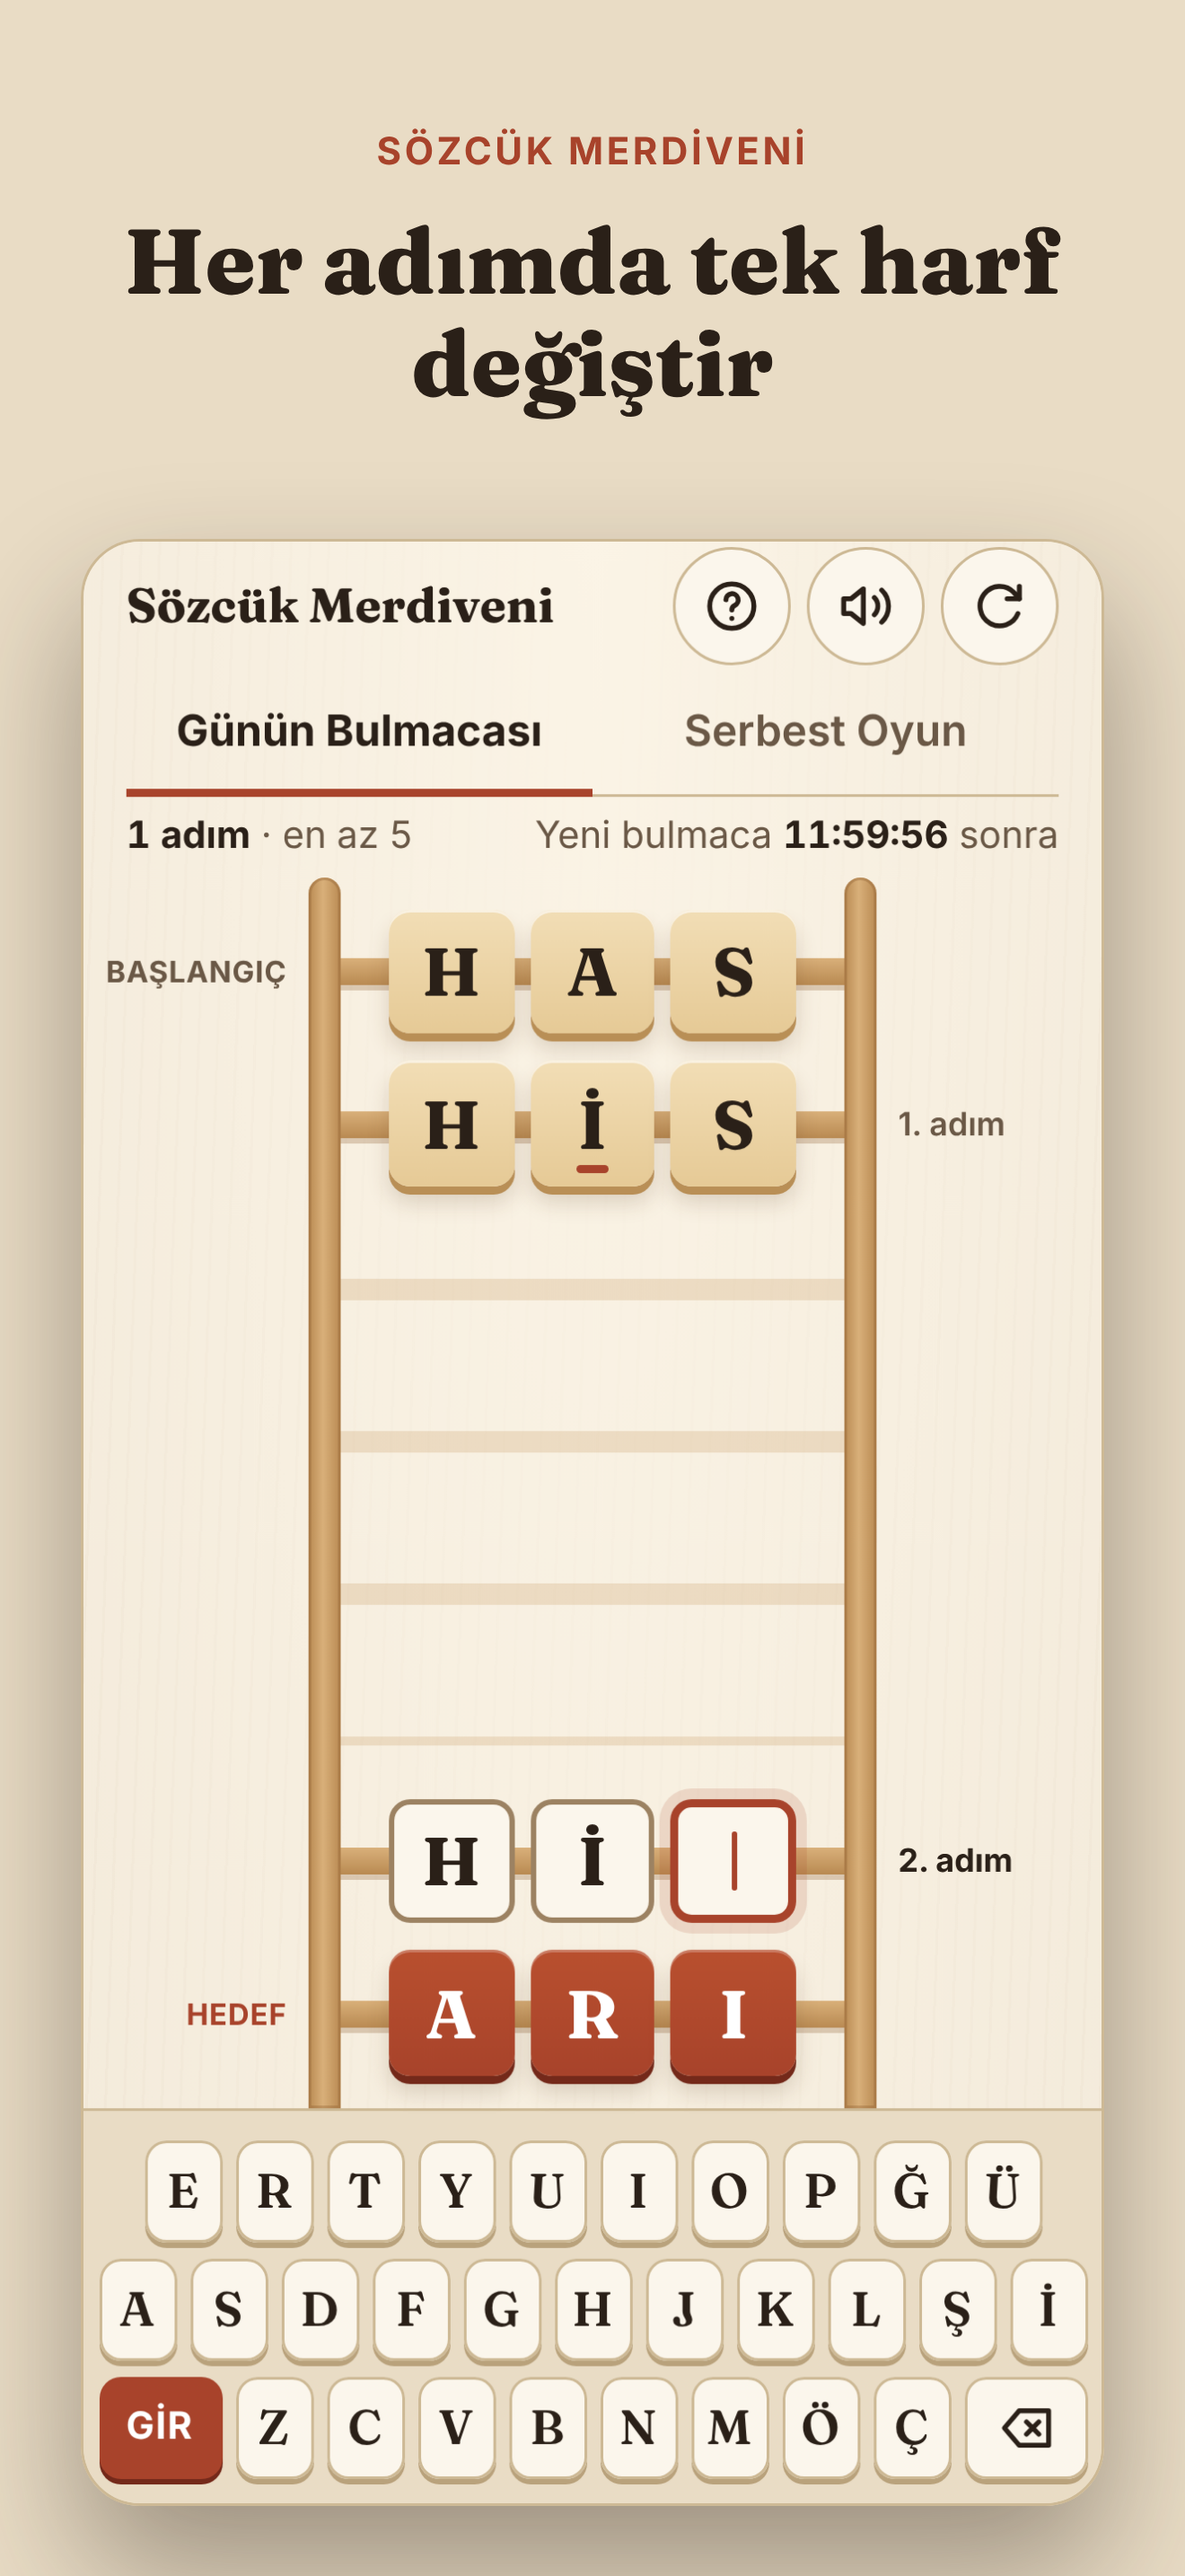
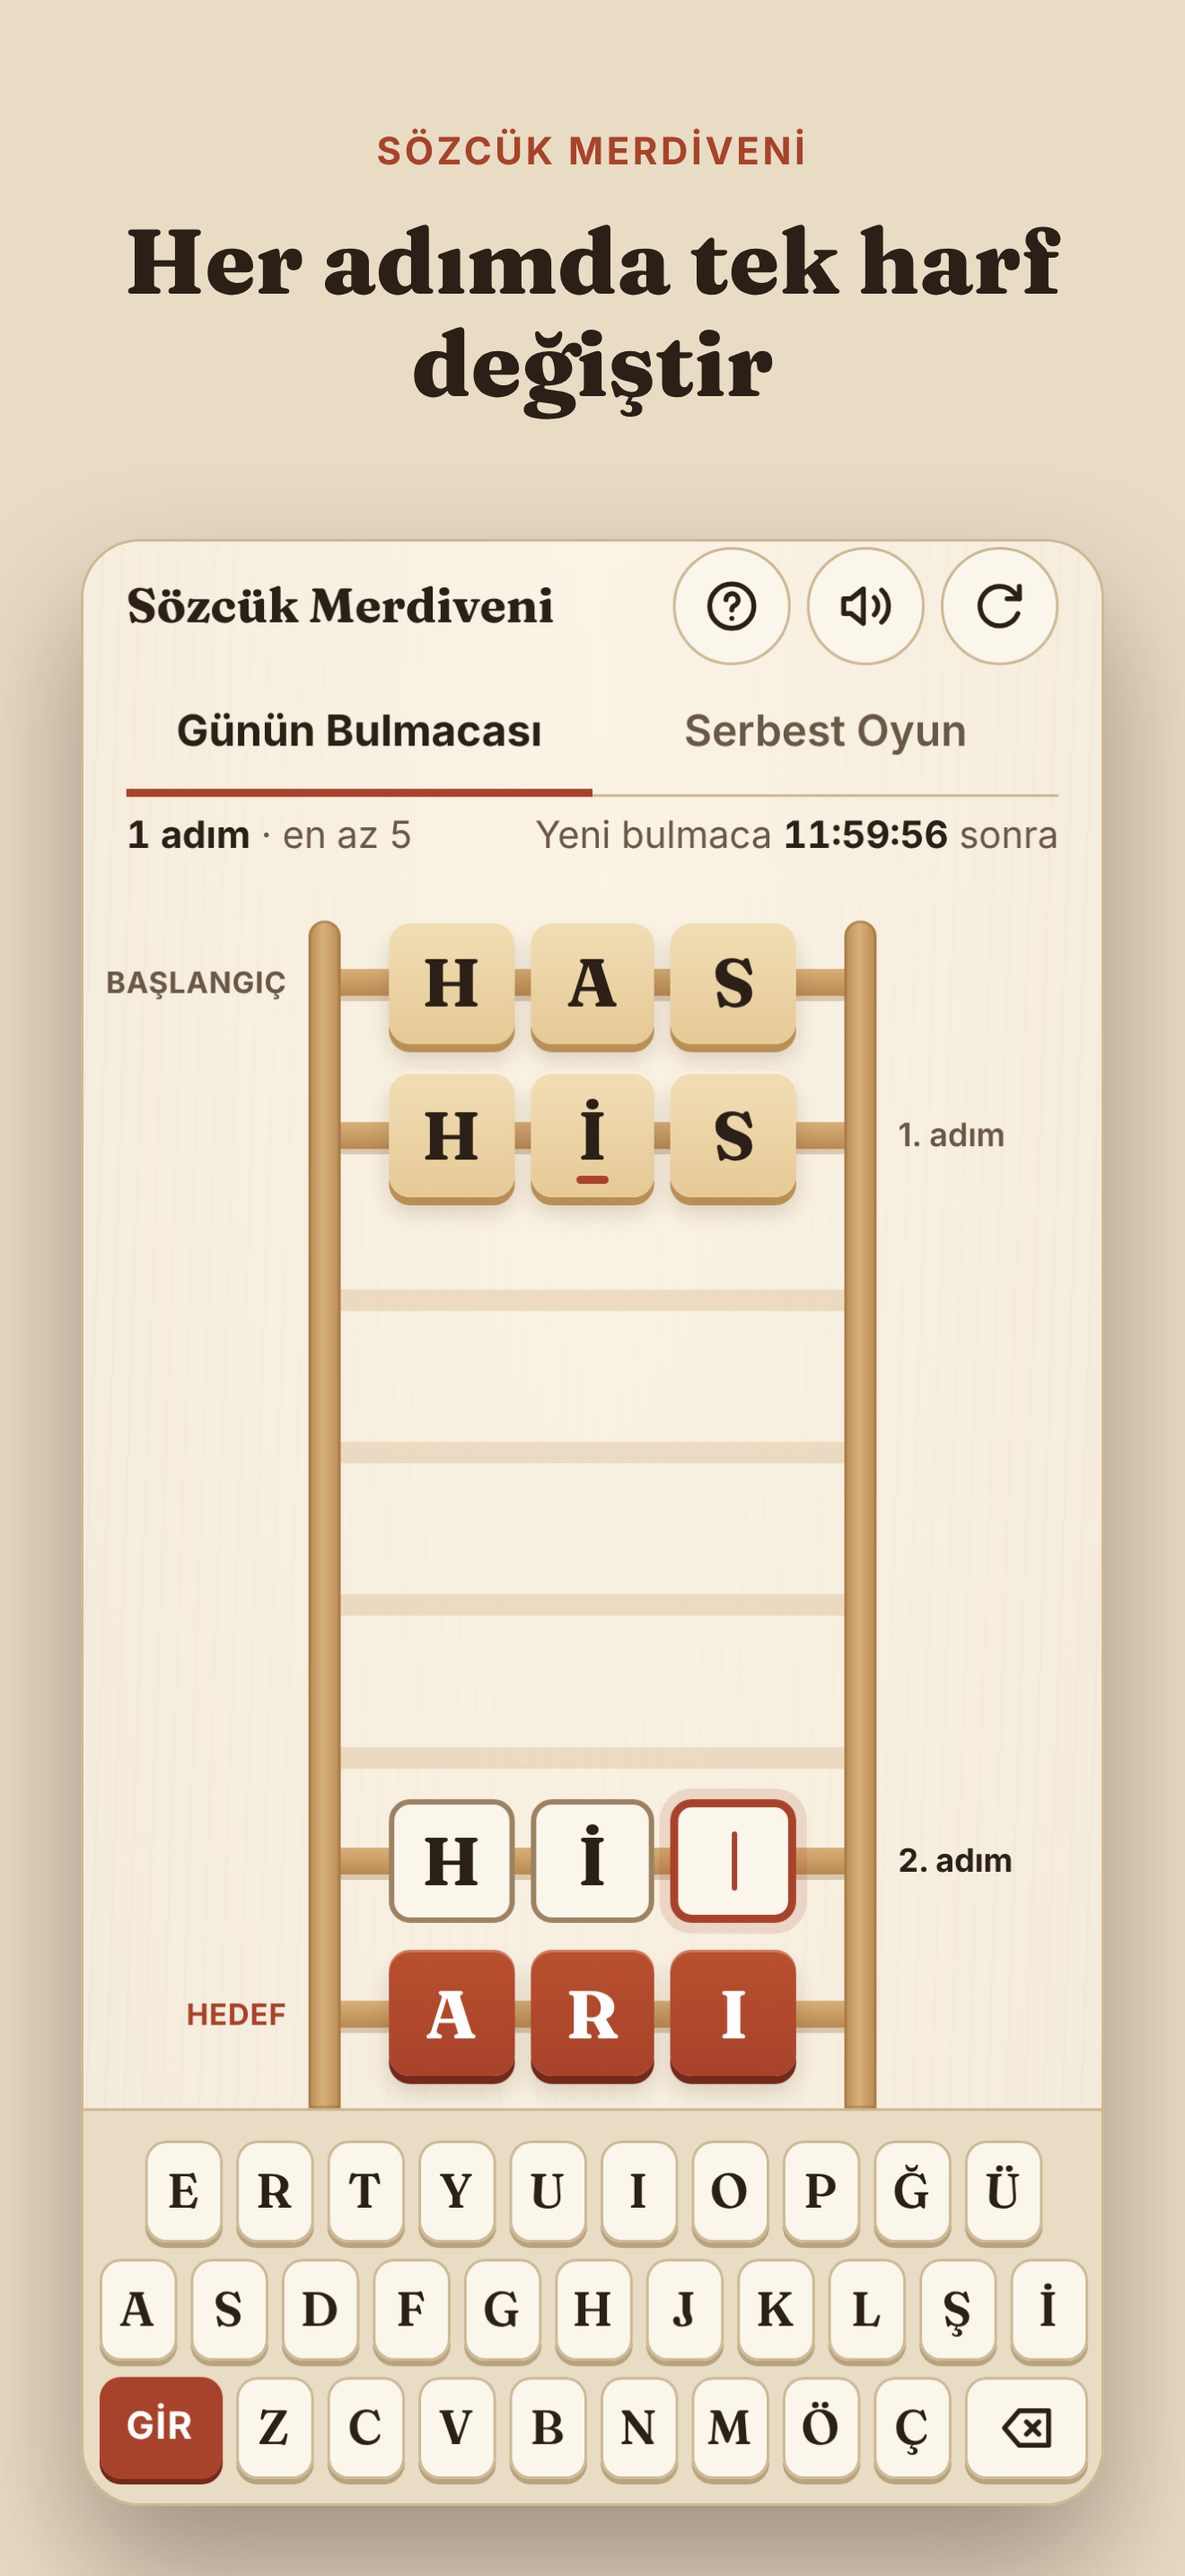
Ahşap: kısa ekran düzeltmesi, bağlantıda Enter, inceleme bulguları
- Kısa ve yatay ekran: .steps en az bir basamak boyunda kalır (son kelime
  hep görünür); sığmayan merdiven .game içinde kayar, klavyenin üstüne
  taşmaz. Kabul sonrası giriş satırı görünür tutulur.
- Odaktaki bağlantıda Enter bağlantıyı açar, kelime göndermez.
- Giriş satırı ekran okuyucuya duyurulur (aria-live).
- Zinciri kayıtta olmayan çözülmüş günlükte adım sayısı kayıttan okunur.
- fonts/OFL.txt ilk satırındaki artık parça temizlendi.
- Testler: 320×460'ta son kelime ve giriş görünür, 667×375'te tuşların üstü
  örtülmez, fiziksel klavye (i → İ, ı → I, Backspace, Enter), bağlantıda
  Enter, aria-live.

Claude-Session: https://claude.ai/code/session_01C8YUUGzBwuF5YnZnuwjbBR

diff --git a/tools/test_tarayici.js b/tools/test_tarayici.js
@@ -273,6 +273,35 @@ async function main() {
     denetle(serbest.mod === "free" && !serbest.bitti, "serbest oyun başlamadı");
     denetle(serbest.boy === serbest.tercih, `serbest oyun ${serbest.boy} harfli, seçili uzunluk ${serbest.tercih}`);
 
+    // Fiziksel klavye (masaüstü ve iPad'in tek yazma yolu): küçük harf Türkçe
+    // kurala göre büyür (i → İ, ı → I), Backspace siler, Enter kelimeyi gönderir.
+    const tusla = (k) => sayfa.evaluate((key) => document.dispatchEvent(new KeyboardEvent("keydown", { key, bubbles: true, cancelable: true })), k);
+    await sayfa.keyboard.type("i");
+    await tusla("ı");                       // Türkçe klavyedeki tuş; Playwright'ın tuş listesinde yok
+    denetle(await sayfa.evaluate(() => oyun.buffer) === "İI", `fiziksel klavyede 'i', 'ı' yazıldı; tampon '${await sayfa.evaluate(() => oyun.buffer)}', 'İI' olmalı`);
+    await sayfa.keyboard.press("Backspace"); await sayfa.keyboard.press("Backspace");
+    denetle(await sayfa.evaluate(() => oyun.buffer) === "", "Backspace tamponu boşaltmadı");
+    // İlk adımı yalnızca ABD düzeninde yazılabilen harflerden oluşan bir bulmaca bul
+    let ilkAdim = "";
+    for (let i = 0; i < 80 && !ilkAdim; i++) {
+      const [fb, fh] = await sayfa.evaluate(() => [oyun.startWord, oyun.targetWord]);
+      const aday = (enKisaYol(fb, fh) || [""])[0];
+      if (/^[A-HJ-Zİ]+$/.test(aday)) ilkAdim = aday; else await sayfa.click("#btnRestart");
+    }
+    denetle(!!ilkAdim, "fiziksel klavye denemesi için uygun bulmaca bulunamadı");
+    await sayfa.keyboard.type(ilkAdim.toLocaleLowerCase("tr"));
+    await sayfa.keyboard.press("Enter");
+    const fiziksel = await sayfa.evaluate(() => oyun.chain.slice());
+    denetle(fiziksel.length === 2 && fiziksel[1] === ilkAdim, `fiziksel klavyeyle '${ilkAdim}' yazılıp Enter'a basıldı; zincir ${JSON.stringify(fiziksel)}`);
+    // Odaktaki bağlantıda Enter bağlantıyı açar, kelime göndermez
+    await sayfa.keyboard.type("a");
+    await sayfa.focus("#btnHelp");
+    await sayfa.keyboard.press("Enter");
+    const baglanti = await sayfa.evaluate(() => ({ hash: location.hash, toast: document.getElementById("toast").classList.contains("show"), zincir: oyun.chain.length }));
+    denetle(baglanti.hash === "#nasil-oynanir" && baglanti.zincir === 2, `yardım bağlantısında Enter: adres '${baglanti.hash}', zincir ${baglanti.zincir}`);
+    denetle(await sayfa.evaluate(() => document.getElementById("inputRow").getAttribute("aria-live")) === "polite",
+            "giriş satırı ekran okuyucuya duyurulmuyor (aria-live)");
+
     /* Dokunmatik: telefonda da ekran klavyesi kullanılır; cihaz klavyesini
        açacak bir giriş alanı yoktur. Fiziksel klavye (ör. iPad) yine çalışır. */
     console.log("8. Dokunmatik giriş");
@@ -422,6 +451,49 @@ async function main() {
         denetle(!tahta.ayar.length, `${ad}: kayan bölümün üst kenarına dokunuş ayar düğmesine gidiyor: ${tahta.ayar.join(", ")}`);
       }
       await b.close();
+    }
+
+    // Çok kısa ekranlar: son kelime görünür kalır, merdiven klavyeye taşmaz
+    {
+      const b = await tarayici.newContext({ viewport: { width: 320, height: 460 }, hasTouch: true, isMobile: true });
+      await disAgiKapat(b);
+      const s = await b.newPage();
+      s.on("pageerror", (e) => sayfaHatalari.push(e.message));
+      await s.goto(ADRES); await oyunHazir(s);
+      const gunlukBas = await s.evaluate(() => {
+        const k = document.getElementById("startWord").getBoundingClientRect(), g = document.getElementById("inputRow").getBoundingClientRect();
+        return k.bottom <= g.top + 0.5;
+      });
+      denetle(gunlukBas, "320×460 günlük: başlangıç kelimesi giriş satırının altında kalıyor");
+      await s.tap("#tabFree"); await s.tap('[data-len="4"]');
+      const [kb, kh] = await s.evaluate(() => [oyun.startWord, oyun.targetWord]);
+      await kelimeDokun(s, enKisaYol(kb, kh)[0]);
+      await s.waitForTimeout(400);           // basamağın iniş animasyonu bitsin
+      const son = await s.evaluate(() => {
+        const r = document.querySelector("#ladder .rung:last-child .word-row").getBoundingClientRect();
+        const k = document.getElementById("steps").getBoundingClientRect(), g = document.getElementById("game").getBoundingClientRect();
+        const giris = document.getElementById("inputRow").getBoundingClientRect();
+        return { icinde: r.top >= k.top - 0.5 && r.bottom <= k.bottom + 0.5,
+                 ekranda: r.top >= g.top - 0.5 && r.bottom <= Math.min(innerHeight, g.bottom) + 0.5,
+                 ustte: r.bottom <= giris.top + 0.5,
+                 giris: giris.top >= g.top - 0.5 && giris.bottom <= Math.min(innerHeight, g.bottom) + 0.5 };
+      });
+      denetle(son.icinde && son.ekranda && son.ustte && son.giris, `320×460 serbest 4 harf: son girilen kelime ya da giriş satırı görünmüyor (${JSON.stringify(son)})`);
+      await b.close();
+
+      const y = await tarayici.newContext({ viewport: { width: 667, height: 375 }, hasTouch: true, isMobile: true });
+      await disAgiKapat(y);
+      const ys = await y.newPage();
+      ys.on("pageerror", (e) => sayfaHatalari.push(e.message));
+      await ys.goto(ADRES); await oyunHazir(ys);
+      const ortulu = await ys.evaluate(() => [...document.querySelectorAll("#keyboard .key")].filter((t) => {
+        const r = t.getBoundingClientRect(), e = document.elementFromPoint(r.left + r.width / 2, r.top + r.height / 2);
+        return !e || !t.contains(e);
+      }).map((t) => t.dataset.key));
+      denetle(!ortulu.length, `667×375 yatay: tuşların üstü örtülü, dokunuş tuşa gitmiyor: ${ortulu.join(" ")}`);
+      await kelimeDokun(ys, enKisaYol(...(await ys.evaluate(() => [oyun.startWord, oyun.targetWord])))[0]);
+      denetle(await ys.evaluate(() => oyun.chain.length) === 2, "667×375 yatay: ekran klavyesiyle kelime girilemedi");
+      await y.close();
     }
 
     /* 11) Analitik yok: Google/gstatic isteği yapılmaz, eski izler temizlenir */

diff --git a/style.css b/style.css
@@ -381,6 +381,11 @@ button { font: inherit; color: inherit; }
 .game {
   flex: 1;
   min-height: 0;                   /* Flex çocuğun taşmadan küçülebilmesi için */
+  /* Çok kısa ekranda (yatay telefon) merdiven sığmazsa klavyenin üstüne
+     taşmak yerine burada kayar. Üst boşluk dolgu değil kenarlık: "Paylaş"ın
+     görünmez dokunma alanı bu şeride iner, kayan bloklar altına girmez. */
+  overflow-y: auto;
+  border-top: var(--space-4) solid transparent;
 }
 .game[data-boy="4"] { --len: 4; }
 .game[data-boy="5"] { --len: 5; }
@@ -392,11 +397,11 @@ button { font: inherit; color: inherit; }
 
 .frame {
   position: relative;
-  height: 100%;
+  min-height: 100%;
   display: flex;
   flex-direction: column;
   gap: var(--rung-gap);
-  padding: var(--space-3) 0;
+  padding-bottom: var(--space-3);
 }
 /* Korkuluklar */
 .frame::before, .frame::after {
@@ -416,12 +421,11 @@ button { font: inherit; color: inherit; }
 
 /* Kayan bölüm: BAŞLANGIÇ + girilen kelimeler + boş basamaklar */
 .steps {
-  flex: 1;
-  min-height: 0;
+  flex: 1 1 0;
+  min-height: var(--pitch);          /* Son kelime her zaman görünür: en az bir basamak */
   display: flex;
   flex-direction: column;
   gap: var(--rung-gap);
-  padding-bottom: var(--rung-gap);   /* Son bloğun gölgesi kırpılmasın */
   overflow-y: auto;
   scrollbar-width: thin;
 }
@@ -553,7 +557,9 @@ button { font: inherit; color: inherit; }
 /* Hedefe ulaşınca giriş satırı ve boş basamaklar kalkar; merdiven üstte toplanır */
 .game.bitti .input-rung,
 .game.bitti .ghost { display: none; }
-.game.bitti .steps { flex: 0 1 auto; }
+.game.bitti .steps { flex: 0 1 auto; padding-bottom: var(--rung-gap); }   /* Son bloğun gölgesi kırpılmasın */
+/* Örnek merdiven kaymaz; kenarlığın yerine iç boşluk */
+.example .frame { padding-top: var(--space-3); }
 
 .ladder .rung { animation: slideIn var(--dur-base) var(--ease); }
 

diff --git a/app.js b/app.js
@@ -305,7 +305,8 @@ class WordLadder {
 
   // Durum satırı: atılan adım ve bulmacanın en az adım sayısı
   renderStatus() {
-    const adim = `${this.chain.length - 1} adım`;
+    // Çözülmüş günlüğün zinciri kayıtta yoksa adım sayısı kayıttan okunur
+    const adim = `${this.over && this.lastResult ? this.lastResult.steps : this.chain.length - 1} adım`;
     this.el.stepInfo.textContent = this.over ? "Çözüldü" : adim;
     this.el.parInfo.textContent = this.over ? ` · ${adim}`
       : this.optimal ? ` · en az ${this.optimal}` : "";
@@ -524,6 +525,8 @@ class WordLadder {
 
     // Kabul edilen kelimeyi merdivene ekle (hedefle eşleşen harfler yeşil)
     this.addRung(this.chain.length - 1);
+    // Çok kısa ekranda .game de kayar; giriş satırı görünür kalsın
+    this.el.input.scrollIntoView({ block: "nearest" });
 
     this.buffer = "";
     this.renderStatus();
@@ -782,6 +785,8 @@ class WordLadder {
       if (e.ctrlKey || e.metaKey || e.altKey) return;
 
       if (e.key === "Enter") {
+        // Odaktaki bağlantıda Enter bağlantıyı açar (Nasıl oynanır, Anladım, Gizlilik)
+        if (e.target.closest("a[href]")) return;
         // preventDefault: odakta buton kaldıysa Enter'ın onu tetiklemesini
         // engeller — aksi halde "Sözlükte yok" hatasıyla birlikte yanlışlıkla
         // yeni oyun başlıyordu

diff --git a/index.html b/index.html
@@ -154,7 +154,7 @@
 
       <!-- Giriş satırı: o an yazılan kelime -->
       <section class="rung input-rung">
-        <div class="word-row input-row" id="inputRow" aria-label="Kelime girişi"></div>
+        <div class="word-row input-row" id="inputRow" aria-label="Kelime girişi" aria-live="polite"></div>
         <span class="step-label" id="inputLabel"></span>
       </section>
 

diff --git a/ekip/tasarim-sistemi.md b/ekip/tasarim-sistemi.md
@@ -129,6 +129,10 @@ giriş satırı HEDEF'in hemen üstündedir. Yalnızca üst bölüm (`.steps`:
 BAŞLANGIÇ + girilen kelimeler + boş basamaklar) kayar; giriş satırı ve HEDEF
 sabittir. Her yeni adımda `.steps` sona kaydırılır: eski basamaklar yukarı
 çıkar. Bulmaca çözülünce giriş satırı ve boş basamaklar kalkar.
+Çok kısa ekranda (320×460, yatay telefon) `.steps` en az bir basamak boyunda
+kalır (son kelime hep görünür) ve sığmayan merdiven `.game` içinde kayar:
+önce son kelime ve giriş satırı görünür, HEDEF kaydırınca gelir. Merdiven
+klavyenin üstüne taşmaz.
 
 - **Basamak** (`.rung`): ortada kelime (`.word-row`), arkasında korkuluktan
   korkuluğa çıta, solda `.rung-label` (BAŞLANGIÇ / HEDEF), sağda `.step-label`
@@ -176,8 +180,8 @@ başlangıç, hedef.
 - Dokunma alanı en az 44×44 px (`--tap-min`). İkon düğmesi ve sekme gerçekten
   44 px'tir. Ayar düğmesi 44 px yüksek bir düğmedir, görünen parçası içindeki
   36 px'lik dolgudur. "Paylaş" 28 px görünür; alanı görünmez `::before`
-  katmanıyla aşağı doğru 44 px'e tamamlanır (altı tahtanın üst boşluğudur,
-  kayan bölüm değildir). Kabuğa yeni denetim eklerken görünmez katmanı kayan
+  katmanıyla aşağı doğru 44 px'e tamamlanır (altı `.game`'in saydam üst kenarlığıdır;
+  kayan içerik onun altında kırpılır). Kabuğa yeni denetim eklerken görünmez katmanı kayan
   bölüme (`.steps`) taşırma.
 - **Tek istisna klavye tuşunun eni:** sırada 11 tuş olduğu için 320 px ekranda
   ~28 px, 393 px ekranda ~35 px. Boyu her zaman en az 44 px'tir ve tuşlar
@@ -187,7 +191,9 @@ başlangıç, hedef.
 - `tools/test_tarayici.js` şunları ölçer: merdiven sırası (BAŞLANGIÇ → adım →
   giriş → HEDEF); 360×560 ve 375×548 serbest oyunda HEDEF ve giriş satırı,
   320×460'ta giriş satırı, çözülmüş günlükte HEDEF ilk ekranda; denetimlerin
-  gerçek dokunma alanı 44×44, tuş boyu 44; uzun merdivende son kelime, giriş
+  gerçek dokunma alanı 44×44, tuş boyu 44; 320×460'ta son kelime ve giriş
+  görünür, 667×375 yatayda hiçbir tuşun üstü örtülmez; fiziksel klavye
+  (i → İ, ı → I, Backspace, Enter); uzun merdivende son kelime, giriş
   ve HEDEF görünür, kayan bölümün üst kenarındaki dokunuş ayar düğmesine
   gitmiyor; 390 px'te yatay taşma yok.
 - Odak halkası (`:focus-visible`, mürekkep rengi) kaldırılmaz. Kapalı pencere
